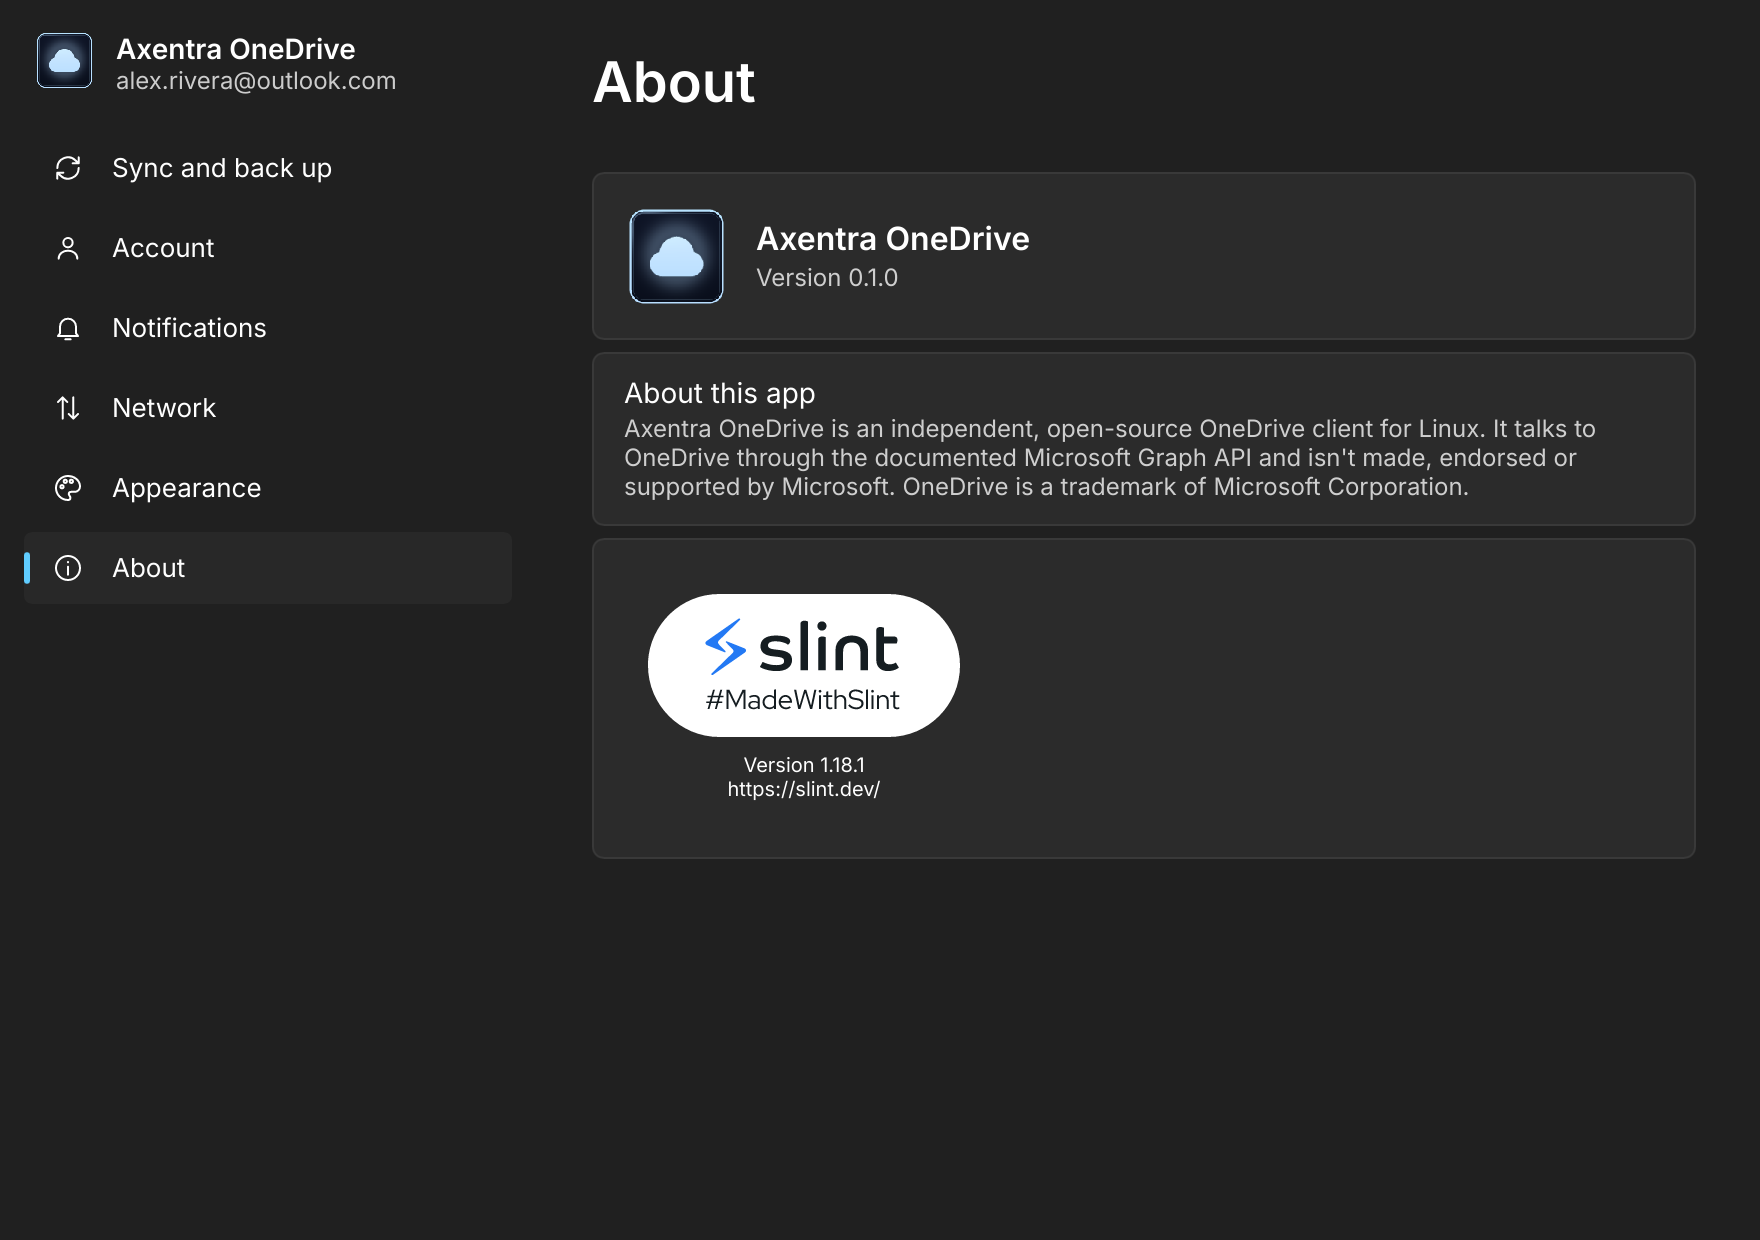
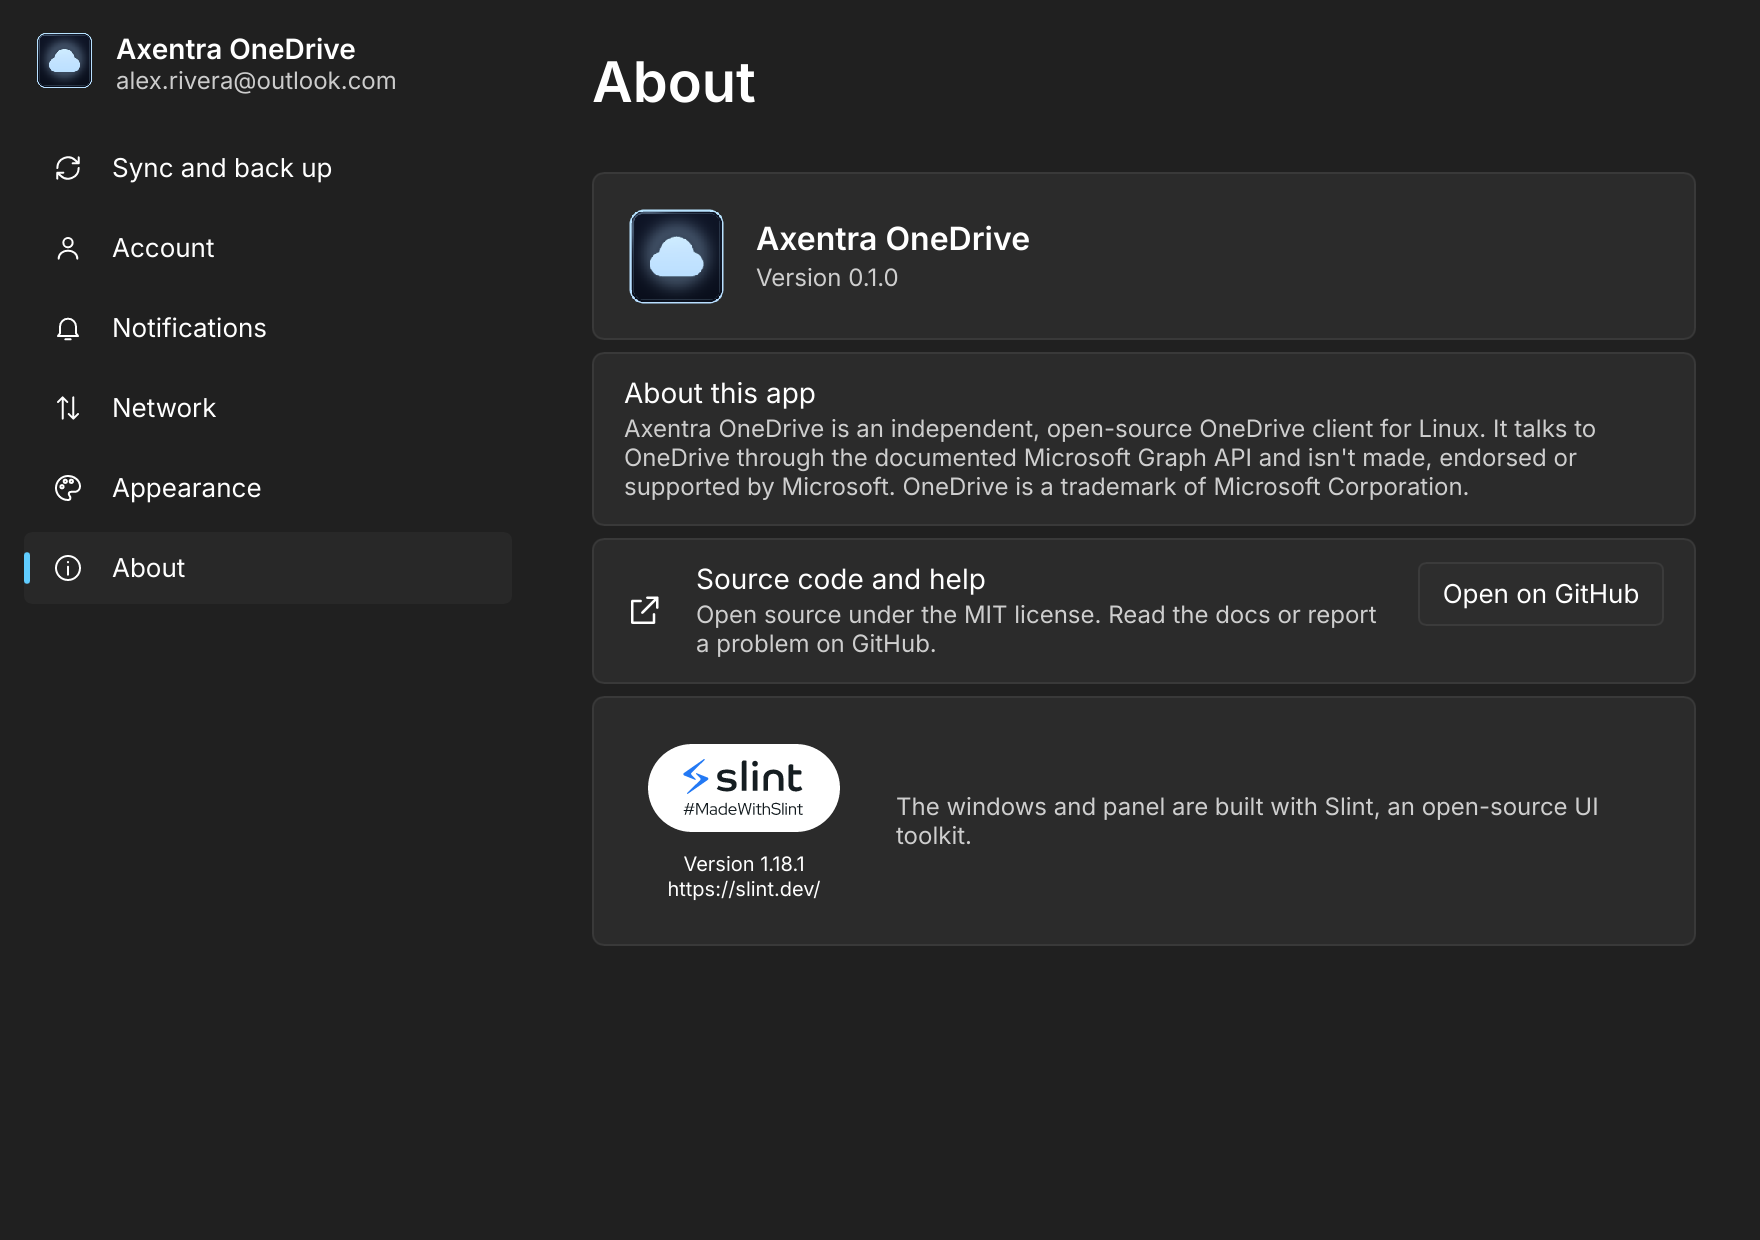
Axentra OneDrive: Settings polish and a clean exit when the session ends
- Network: rows describe each setting instead of repeating the dropdown
  value, read "Limit to ___ KB/s" in order, and the dropdowns line up.
- About: a "Source code and help" row that opens the project on GitHub,
  and a compact Slint credit.
- When the display connection closes (the desktop session ending), the
  tray app exits at once with status 1 instead of returning, which aborted
  in a clipboard thread during teardown and left a core dump.
- Refreshed Network and About screenshots; changelog updated.

Changed region(s): [[0.3438, 0.4597, 0.7812, 0.7355], [0.5, 0.6435, 0.9062, 0.6742], [0.8125, 0.4597, 0.9375, 0.4903]]

diff --git a/OneDrive/source/crates/ui/src/app.rs b/OneDrive/source/crates/ui/src/app.rs
@@ -30,6 +30,7 @@ pub enum Cmd {
     ShowSettings,
     OpenFolder,
     ViewOnline,
+    OpenSource,
     RecycleBin,
     ManageStorage,
     Pause(u32),
@@ -119,6 +120,7 @@ pub fn run(start_with_settings: bool, show_panel: bool) -> Result<()> {
     wire!(settings.on_unlink => Cmd::Unlink);
     wire!(settings.on_manage_storage => Cmd::ManageStorage);
     wire!(settings.on_view_online => Cmd::ViewOnline);
+    wire!(settings.on_open_source => Cmd::OpenSource);
     wire!(settings.on_set_icon_color(c) => Cmd::SetIconColor(c.to_string()));
 
     close_on_focus_loss(&flyout);
@@ -129,7 +131,14 @@ pub fn run(start_with_settings: bool, show_panel: bool) -> Result<()> {
     rt.spawn(
         Backend::new(tx.clone(), flyout.as_weak(), settings.as_weak()).run(rx, start_with_settings),
     );
-    slint::run_event_loop_until_quit()?;
+    if let Err(e) = slint::run_event_loop_until_quit() {
+        // The display connection closed, normally because the desktop
+        // session ended. Leave at once: tearing down after that aborts in
+        // the clipboard's thread. Exiting with 1 lets the tray service start
+        // it again if the session is still running.
+        tracing::warn!("the desktop session went away ({e}); exiting");
+        unsafe { libc::_exit(1) };
+    }
     rt.shutdown_timeout(Duration::from_secs(1));
     Ok(())
 }
@@ -655,6 +664,9 @@ impl Backend {
                 };
                 self.hide_flyout();
                 open(&url.unwrap_or_else(|| "https://onedrive.live.com/my".into()));
+            }
+            Cmd::OpenSource => {
+                open("https://github.com/MECMwithShawn/Axentra-Software/tree/main/OneDrive")
             }
             Cmd::RecycleBin => {
                 self.hide_flyout();

diff --git a/OneDrive/CHANGELOG.md b/OneDrive/CHANGELOG.md
@@ -19,5 +19,7 @@
 - A second sync service can no longer take the D-Bus name from the running one.
 - The tray icon runs as the user service `axentra-onedrive-tray.service` instead of an autostart entry, so it comes back if it crashes or is closed by something else; the installer restarts it through systemd.
 - On Wayland, the panel and Settings no longer sit in the taskbar as empty windows before they are first opened.
+- Settings polish: Network rows describe each setting instead of repeating the dropdown, show "Limit to ___ KB/s" in order, and line up; About has a "Source code and help" link and a compact Slint credit.
+- When the desktop session ends, the tray app exits cleanly instead of crashing during shutdown.
 
 No binary release, installer or checksums are published for this version.
